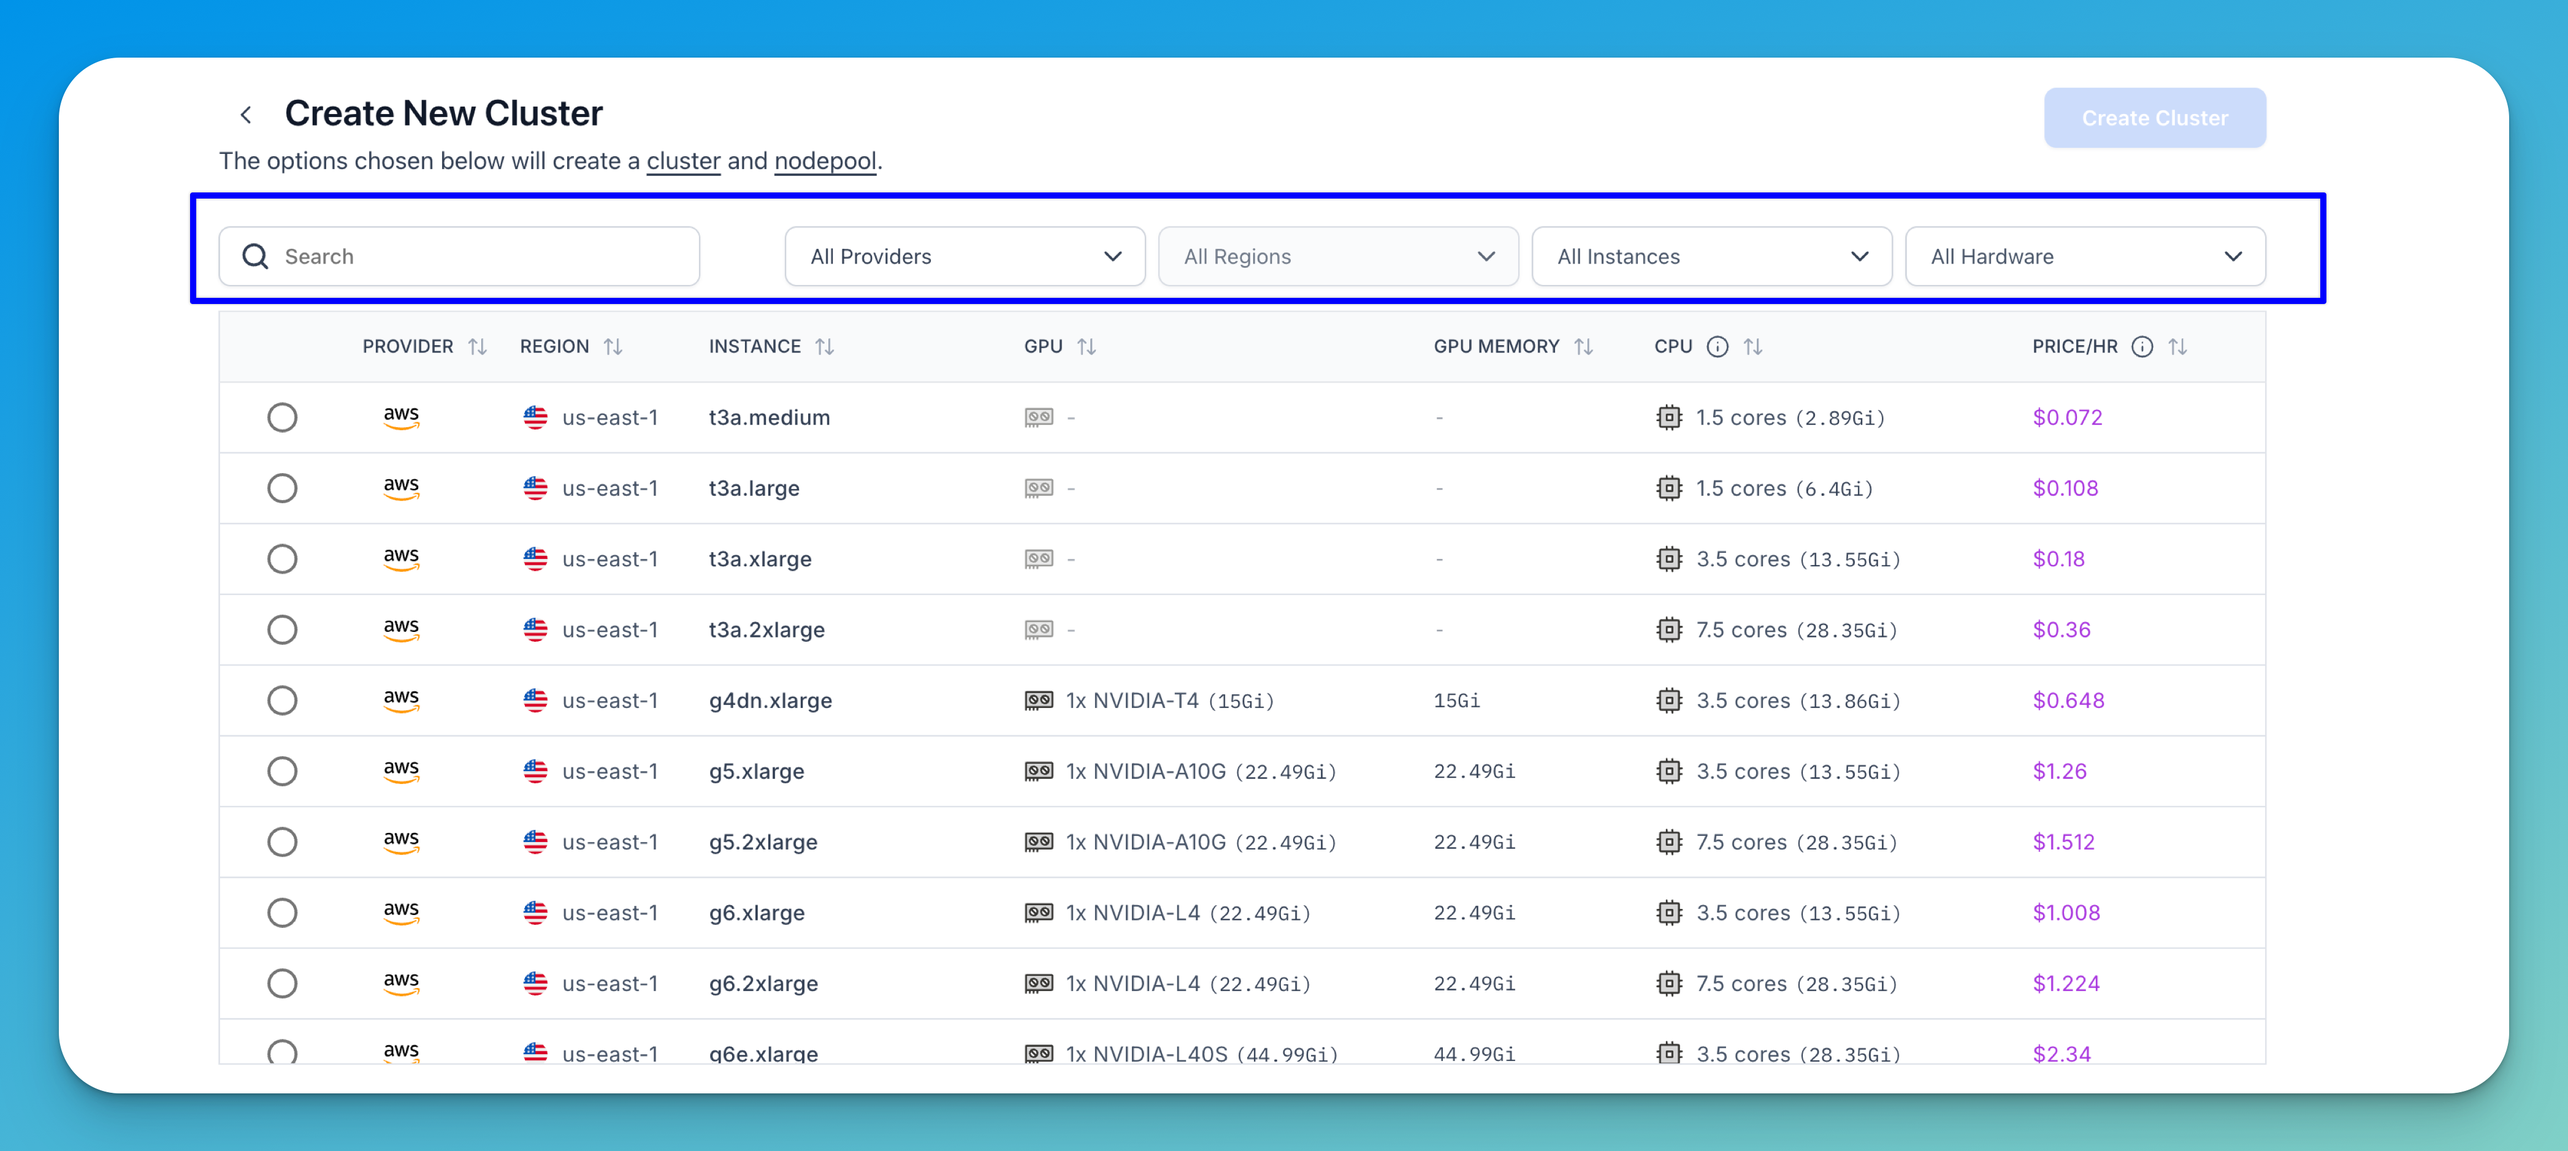
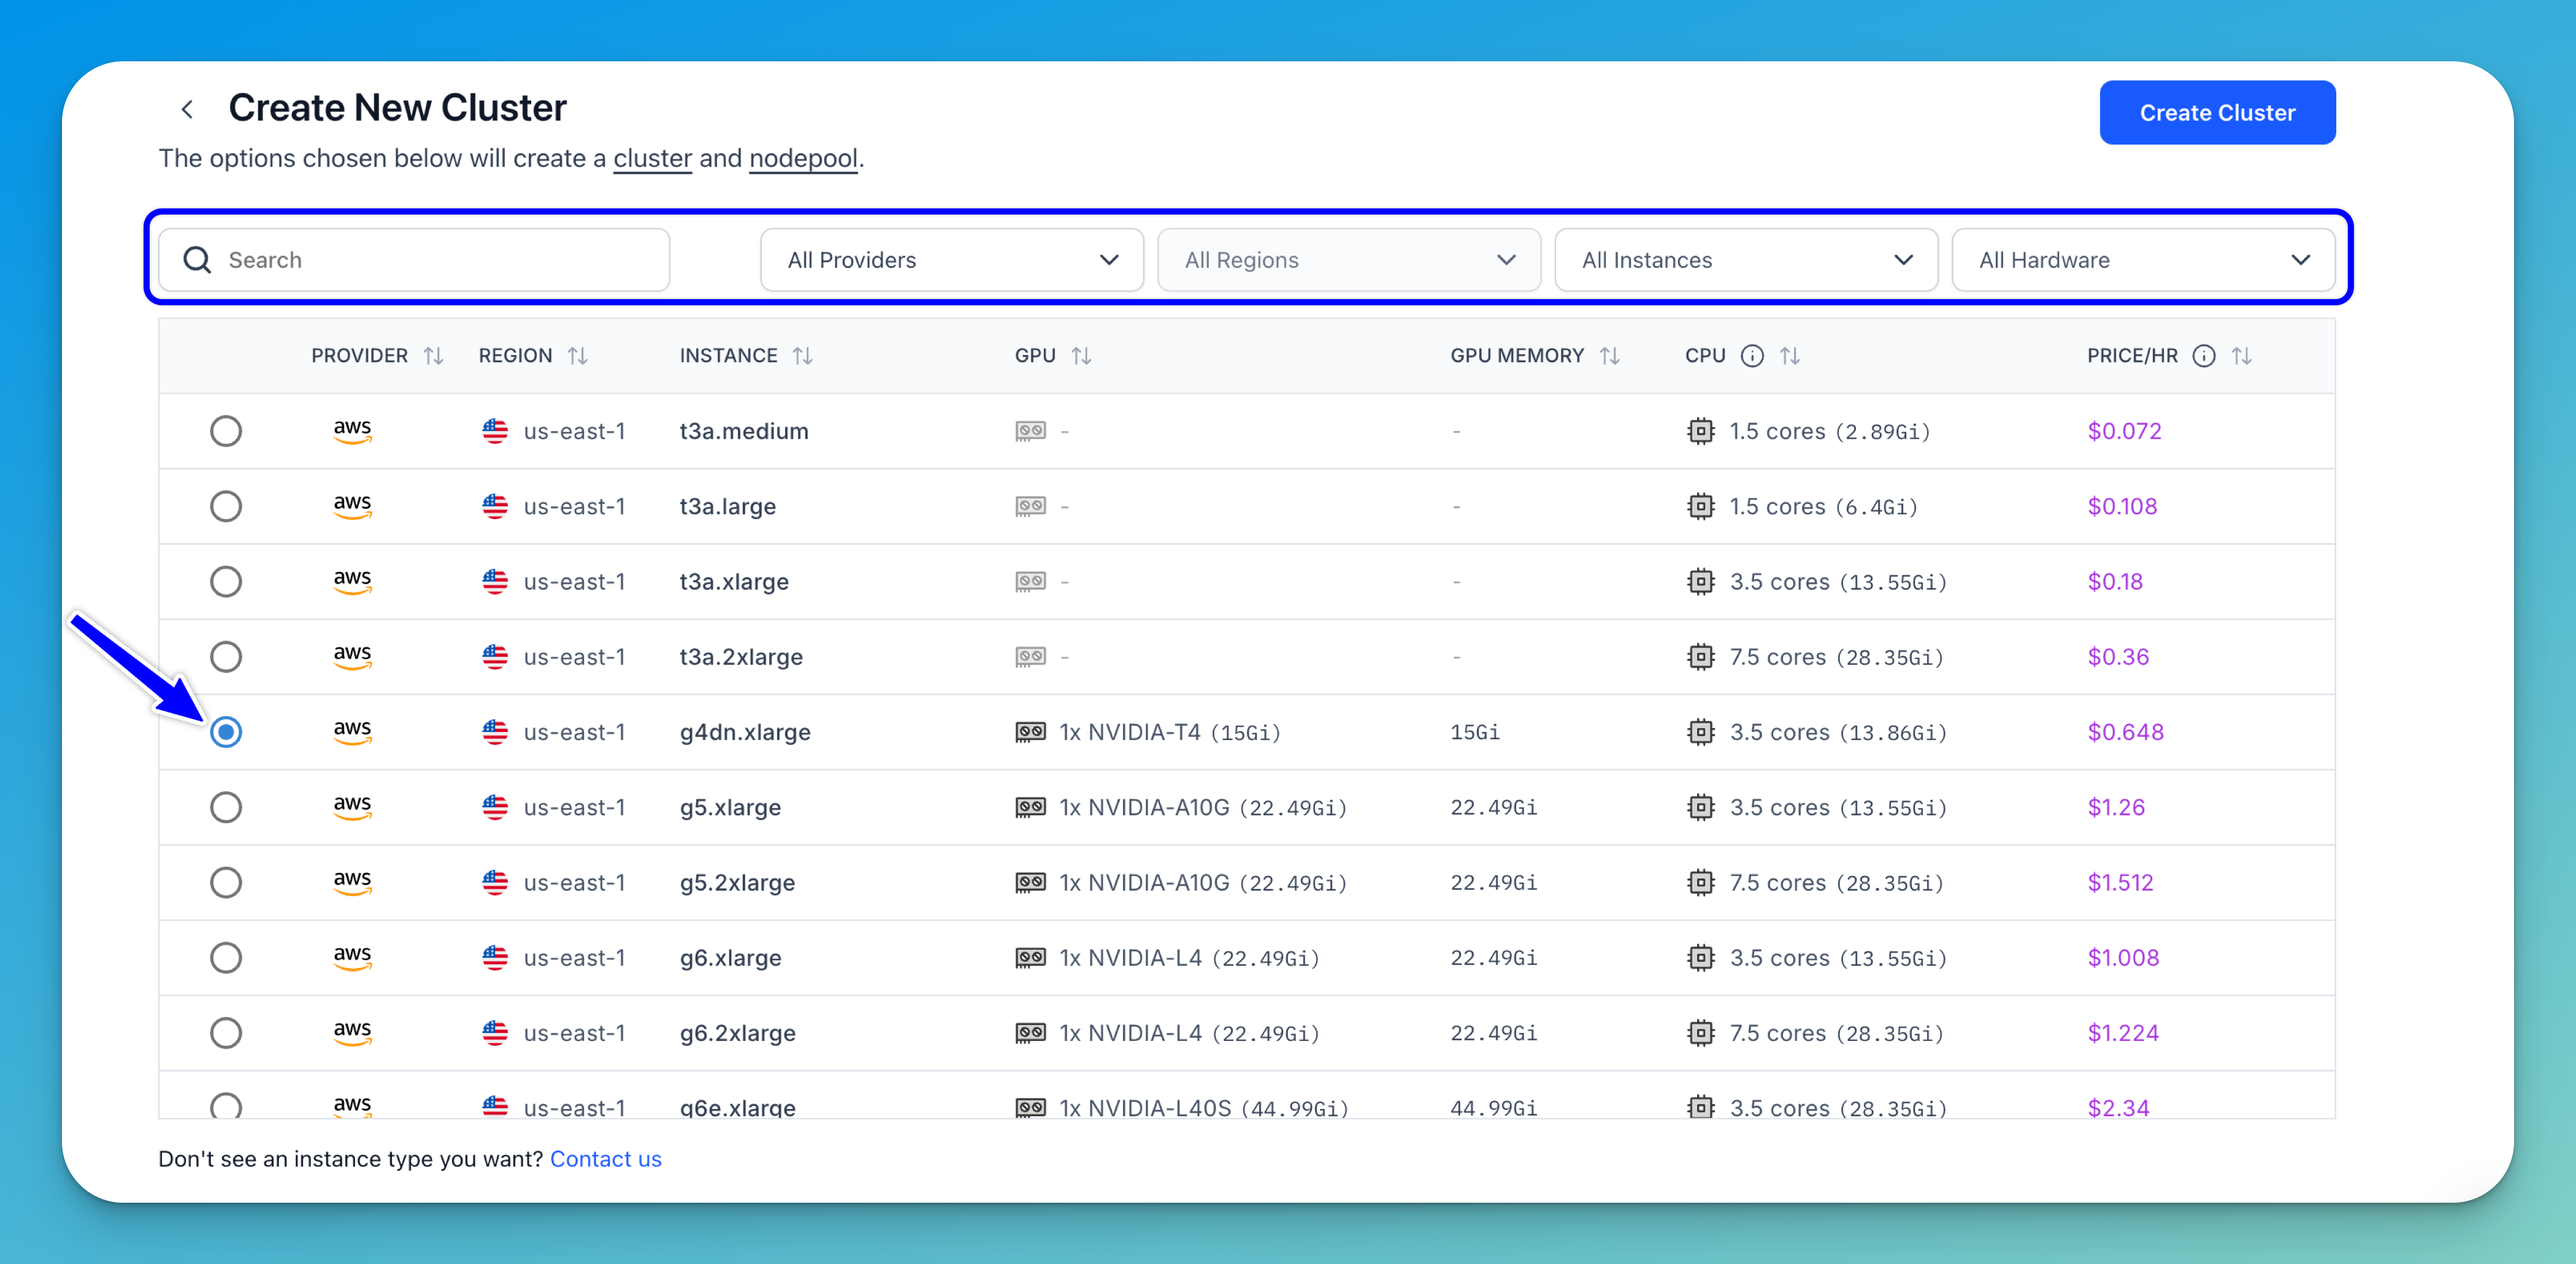
updated CO docs

diff --git a/docs/compute/deployments/clusters-nodepools.md b/docs/compute/deployments/clusters-nodepools.md
@@ -27,9 +27,9 @@ You can connect your existing AWS, Google Cloud (GCP), or Oracle infrastructure 
 
 ### Step 1: Start Creating a Cluster
 
-Log in to the Clarifai platform and select the **Compute** option in the top navigation bar.  
+Log in to the Clarifai platform and select the **Compute** option in the collapsible left sidebar.  
 
-You’ll be redirected to the Compute Orchestration page, where you can view and create clusters, nodepools, and deployments. 
+You’ll be redirected to the Compute Overview page, where you can view and create clusters, nodepools, and deployments. 
 
 Click the **Create a Cluster** button to begin setting up a new cluster along with its associated nodepool.
 
@@ -67,6 +67,8 @@ Before making your final choice, here are some key considerations to make:
 - **Regulatory compliance** – Ensure the chosen region and instance type comply with any relevant data residency or industry-specific regulations.
 
 Once you've found the right instance, click the circular radio button to the left of the row to select it.
+
+> **Note:** For this example, let's select the AWS `g4dn.xlarge` instance in the `us-east-1` region. For the remaining details to be filled, we'll use the already provided default options. After selecting an instance, you can click the [**Create Cluster**](#step-6-finalize-and-create-the-cluster) button to complete creating your cluster and nodepool. Otherwise, you can customize the rest of the settings to meet your needs.
 
 <a id="node-range"></a>
 
@@ -112,11 +114,14 @@ Fill out the form to specify the details for your cluster and nodepool.
 - **Cluster Description** — Optionally, provide a short description that summarizes the details related to the cluster. 
 - **Nodepool ID** — Enter a unique identifier for your nodepool. This ID is used when deploying models and should reflect the nodepool’s purpose or workload. It is auto-filled based on your selected instance type, but you can modify it as needed.
 - **Nodepool Description** — Optionally, provide a short description that summarizes the details related to the nodepool. 
-- **Personal Access Token (PAT)** — Select a [PAT](https://docs.clarifai.com/control/authentication/pat) to authenticate your identity when connecting to the cluster. The token must have the necessary permissions to manage compute resources. If the selected PAT is deleted, any associated compute functionality will stop working. Click the dropdown to view available PATs, or generate a new one by selecting "Create new Personal Access Token" or by visiting the [Security section](https://clarifai.com/settings/security) of your Personal Settings.
+- **Personal Access Token (PAT)** — Use a [PAT](https://docs.clarifai.com/control/authentication/pat) to authenticate your identity when connecting to the cluster. Click the dropdown to choose from existing tokens, or create a new one by selecting **Create a new Personal Access Token** or by visiting the **Security** section in your personal settings.
+    > **Note:** The token must have the required permissions to manage compute resources. If the selected PAT is deleted, any associated compute functionality will stop working.
 
 ### Step 6: Finalize and Create the Cluster
 
-Before you enter the required details for creating a cluster, the **Create Cluster** button in the upper-right corner will be disabled (greyed out). After providing the details, the button will become active. Click it to launch your cluster and nodepool.
+Before you enter the required details for creating a cluster, the **Create Cluster** button in the upper-right corner will be disabled (greyed out). After providing the details, the button will become active. 
+
+Click it to launch your cluster and nodepool.
 
 You'll then be redirected to your newly created cluster's page, where its associated nodepool will be listed in a table.
 
